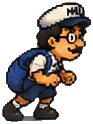
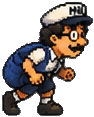
Animate dogs (move/sleep/bark states), sharpen mailman walk cycle, boost detection
Dog animation:
- Extracted per-breed move/sleep/bark frame sets from the dog sheet
  (connected-component analysis with per-component alpha masking, as
  before). Coverage varies by breed since some source rows have
  touching/overlapping frames; dogAnimFrames() falls back to 'move'
  then the static sprite when a category wasn't cleanly extractable.
- Dogs now animate continuously instead of holding one static pose:
  alternating move frames while patrolling/idle, sleep frames while
  asleep, and bark frames once suspicion crosses 0.5 ("alerted").

Mailman: re-picked the walk/sneak frame pairs from the source sheet
using the two most different leg positions (previously adjacent
frames looked nearly identical), so the stride reads clearly now.

Detection: widened nearRadius and cone range further (~30%) and
raised fillRate (~60%) per breed per the request to make both the
360-degree awareness zone and the suspicion fill noticeably stronger.

diff --git a/game.js b/game.js
@@ -45,21 +45,60 @@ const ASSET_PATHS = {
   },
 };
 
+// Per-breed animation frame sets (move/sleep/bark), cut from the same sheet
+// as the static dogs.* sprites. Coverage varies by breed -- some source rows
+// had touching/overlapping frames that couldn't be cleanly separated -- so
+// dogAnimFrames() below falls back gracefully when a category is missing.
+const DOG_ANIM = {
+  chihuahua: { move: ['assets/dogs/anim/chihuahua_move_0.png', 'assets/dogs/anim/chihuahua_move_1.png'], sleep: ['assets/dogs/anim/chihuahua_sleep_0.png', 'assets/dogs/anim/chihuahua_sleep_1.png'], bark: ['assets/dogs/anim/chihuahua_bark_0.png'] },
+  frenchbulldog: { move: ['assets/dogs/anim/frenchbulldog_move_0.png', 'assets/dogs/anim/frenchbulldog_move_1.png'], sleep: ['assets/dogs/anim/frenchbulldog_sleep_0.png', 'assets/dogs/anim/frenchbulldog_sleep_1.png'], bark: ['assets/dogs/anim/frenchbulldog_bark_0.png'] },
+  labrador: { move: ['assets/dogs/anim/labrador_move_0.png'], sleep: ['assets/dogs/anim/labrador_sleep_0.png'], bark: [] },
+  yorkie: { move: ['assets/dogs/anim/yorkie_move_0.png', 'assets/dogs/anim/yorkie_move_1.png'], sleep: ['assets/dogs/anim/yorkie_sleep_0.png'], bark: ['assets/dogs/anim/yorkie_bark_0.png'] },
+  shihtzu: { move: ['assets/dogs/anim/shihtzu_move_0.png', 'assets/dogs/anim/shihtzu_move_1.png'], sleep: ['assets/dogs/anim/shihtzu_sleep_0.png'], bark: ['assets/dogs/anim/shihtzu_bark_0.png'] },
+  goldenretriever: { move: ['assets/dogs/anim/goldenretriever_move_0.png'], sleep: ['assets/dogs/anim/goldenretriever_sleep_0.png'], bark: [] },
+  shepherd: { move: ['assets/dogs/anim/shepherd_move_0.png', 'assets/dogs/anim/shepherd_move_1.png'], sleep: ['assets/dogs/anim/shepherd_sleep_0.png'], bark: [] },
+  pitbull: { move: ['assets/dogs/anim/pitbull_move_0.png', 'assets/dogs/anim/pitbull_move_1.png'], sleep: ['assets/dogs/anim/pitbull_sleep_0.png'], bark: [] },
+  goldendoodle: { move: ['assets/dogs/anim/goldendoodle_move_0.png', 'assets/dogs/anim/goldendoodle_move_1.png'], sleep: ['assets/dogs/anim/goldendoodle_sleep_0.png'], bark: [] },
+  dachshund: { move: ['assets/dogs/anim/dachshund_move_0.png', 'assets/dogs/anim/dachshund_move_1.png'], sleep: ['assets/dogs/anim/dachshund_sleep_0.png', 'assets/dogs/anim/dachshund_sleep_1.png'], bark: [] },
+};
+
 const IMAGES = {};
+const DOG_ANIM_IMAGES = {};
 function preloadImages(onDone) {
   const entries = [];
   for (const group in ASSET_PATHS) {
-    for (const key in ASSET_PATHS[group]) entries.push([`${group}.${key}`, ASSET_PATHS[group][key]]);
+    for (const key in ASSET_PATHS[group]) {
+      const fullKey = `${group}.${key}`;
+      entries.push({ src: ASSET_PATHS[group][key], set: (img) => { IMAGES[fullKey] = img; } });
+    }
+  }
+  for (const breed in DOG_ANIM) {
+    DOG_ANIM_IMAGES[breed] = {};
+    for (const cat in DOG_ANIM[breed]) {
+      const arr = DOG_ANIM_IMAGES[breed][cat] = [];
+      DOG_ANIM[breed][cat].forEach((src, i) => {
+        entries.push({ src, set: (img) => { arr[i] = img; } });
+      });
+    }
   }
   let remaining = entries.length;
   const settle = () => { remaining--; if (remaining <= 0) onDone(); };
-  entries.forEach(([fullKey, src]) => {
+  entries.forEach(({ src, set }) => {
     const img = new Image();
-    img.onload = settle;
+    img.onload = () => { set(img); settle(); };
     img.onerror = settle;
     img.src = src;
-    IMAGES[fullKey] = img;
   });
+}
+// Frames for a breed/category, falling back to 'move' then the single
+// static dogs.* sprite when that category wasn't cleanly extractable.
+function dogAnimFrames(breedKey, cat) {
+  const forCat = DOG_ANIM_IMAGES[breedKey] && DOG_ANIM_IMAGES[breedKey][cat];
+  if (forCat && forCat.length) return forCat;
+  const move = DOG_ANIM_IMAGES[breedKey] && DOG_ANIM_IMAGES[breedKey].move;
+  if (move && move.length) return move;
+  const staticImg = IMAGES[`dogs.${breedKey}`];
+  return staticImg ? [staticImg] : [];
 }
 function drawSprite(img, x, y, dispH, anchor) {
   // anchor: 'center' (default) or 'bottom' (image bottom edge sits at y)
@@ -80,16 +119,16 @@ function drawSprite(img, x, y, dispH, anchor) {
    'sentry' (stands still, sweeps gaze), 'sleepy' (naps on a timer, blind
    while asleep), 'erratic' (random direction changes) */
 const BREEDS = {
-  chihuahua:   { name: 'Chihuahua',              size: 0.60, range: 83,  nearRadius: 22, coneDeg: 50, speed: 40, fillRate: 0.50, behavior: 'pace' },
-  dachshund:   { name: 'Dachshund',              size: 0.80, range: 98,  nearRadius: 26, coneDeg: 50, speed: 24, fillRate: 0.55, behavior: 'pace' },
-  shihtzu:     { name: 'Shih Tzu',               size: 0.75, range: 90,  nearRadius: 24, coneDeg: 50, speed: 18, fillRate: 0.45, behavior: 'sleepy' },
-  frenchbulldog:{ name: 'French Bulldog',        size: 0.90, range: 113, nearRadius: 30, coneDeg: 60, speed: 20, fillRate: 0.60, behavior: 'sentry' },
-  yorkie:      { name: 'Yorkshire Terrier',      size: 0.65, range: 128, nearRadius: 34, coneDeg: 60, speed: 34, fillRate: 0.70, behavior: 'erratic' },
-  labrador:    { name: 'Labrador Retriever',     size: 1.05, range: 143, nearRadius: 38, coneDeg: 60, speed: 34, fillRate: 0.65, behavior: 'pace' },
-  goldendoodle:{ name: 'Goldendoodle',           size: 1.00, range: 135, nearRadius: 36, coneDeg: 65, speed: 32, fillRate: 0.70, behavior: 'erratic' },
-  goldenretriever:{ name: 'Golden Retriever',    size: 1.05, range: 158, nearRadius: 42, coneDeg: 65, speed: 34, fillRate: 0.75, behavior: 'sentry' },
-  shepherd:    { name: 'German Shepherd',        size: 1.10, range: 183, nearRadius: 49, coneDeg: 70, speed: 48, fillRate: 0.85, behavior: 'pace' },
-  pitbull:     { name: 'American Pit Bull Terrier', size: 1.15, range: 203, nearRadius: 54, coneDeg: 70, speed: 46, fillRate: 0.90, behavior: 'sentry' },
+  chihuahua:   { name: 'Chihuahua',              size: 0.60, range: 108, nearRadius: 31, coneDeg: 50, speed: 40, fillRate: 0.80, behavior: 'pace' },
+  dachshund:   { name: 'Dachshund',              size: 0.80, range: 127, nearRadius: 36, coneDeg: 50, speed: 24, fillRate: 0.88, behavior: 'pace' },
+  shihtzu:     { name: 'Shih Tzu',               size: 0.75, range: 117, nearRadius: 34, coneDeg: 50, speed: 18, fillRate: 0.72, behavior: 'sleepy' },
+  frenchbulldog:{ name: 'French Bulldog',        size: 0.90, range: 147, nearRadius: 42, coneDeg: 60, speed: 20, fillRate: 0.96, behavior: 'sentry' },
+  yorkie:      { name: 'Yorkshire Terrier',      size: 0.65, range: 166, nearRadius: 48, coneDeg: 60, speed: 34, fillRate: 1.12, behavior: 'erratic' },
+  labrador:    { name: 'Labrador Retriever',     size: 1.05, range: 186, nearRadius: 53, coneDeg: 60, speed: 34, fillRate: 1.04, behavior: 'pace' },
+  goldendoodle:{ name: 'Goldendoodle',           size: 1.00, range: 176, nearRadius: 50, coneDeg: 65, speed: 32, fillRate: 1.12, behavior: 'erratic' },
+  goldenretriever:{ name: 'Golden Retriever',    size: 1.05, range: 205, nearRadius: 59, coneDeg: 65, speed: 34, fillRate: 1.20, behavior: 'sentry' },
+  shepherd:    { name: 'German Shepherd',        size: 1.10, range: 238, nearRadius: 69, coneDeg: 70, speed: 48, fillRate: 1.36, behavior: 'pace' },
+  pitbull:     { name: 'American Pit Bull Terrier', size: 1.15, range: 264, nearRadius: 76, coneDeg: 70, speed: 46, fillRate: 1.44, behavior: 'sentry' },
 };
 
 /* House siding/roof/door/trim color variants, cycled per house for street variety */
@@ -357,6 +396,8 @@ function makeHouse(side, topY, cfg, index) {
       sweepDir: 1,
       sweepT: Math.random() * Math.PI * 2,
       seen: false,
+      animTimer: Math.random() * 0.18,
+      animFrame: Math.random() < 0.5 ? 0 : 1,
     };
     dogs.push(dog);
   }
@@ -507,6 +548,10 @@ function updatePlayer(dt) {
 
 function updateDog(dog, house, dt, w) {
   const breed = dog.breed;
+
+  dog.animTimer += dt;
+  const animDur = dog.state === 'asleep' ? 0.55 : 0.18;
+  if (dog.animTimer > animDur) { dog.animTimer = 0; dog.animFrame = 1 - dog.animFrame; }
 
   if (breed.behavior === 'sleepy') {
     if (dog.state === 'asleep') {
@@ -1106,8 +1151,11 @@ function drawVisionCone(dog) {
 function drawDog(dog) {
   const breed = dog.breed;
   const s = breed.size;
-  const img = IMAGES[`dogs.${dog.breedKey}`];
   const dispH = 34 * s;
+  const alerted = dog.suspicion > 0.5;
+  const cat = dog.state === 'asleep' ? 'sleep' : (alerted ? 'bark' : 'move');
+  const frames = dogAnimFrames(dog.breedKey, cat);
+  const img = frames.length ? frames[dog.animFrame % frames.length] : IMAGES[`dogs.${dog.breedKey}`];
 
   // ground shadow
   ctx.fillStyle = 'rgba(0,0,0,0.22)';
